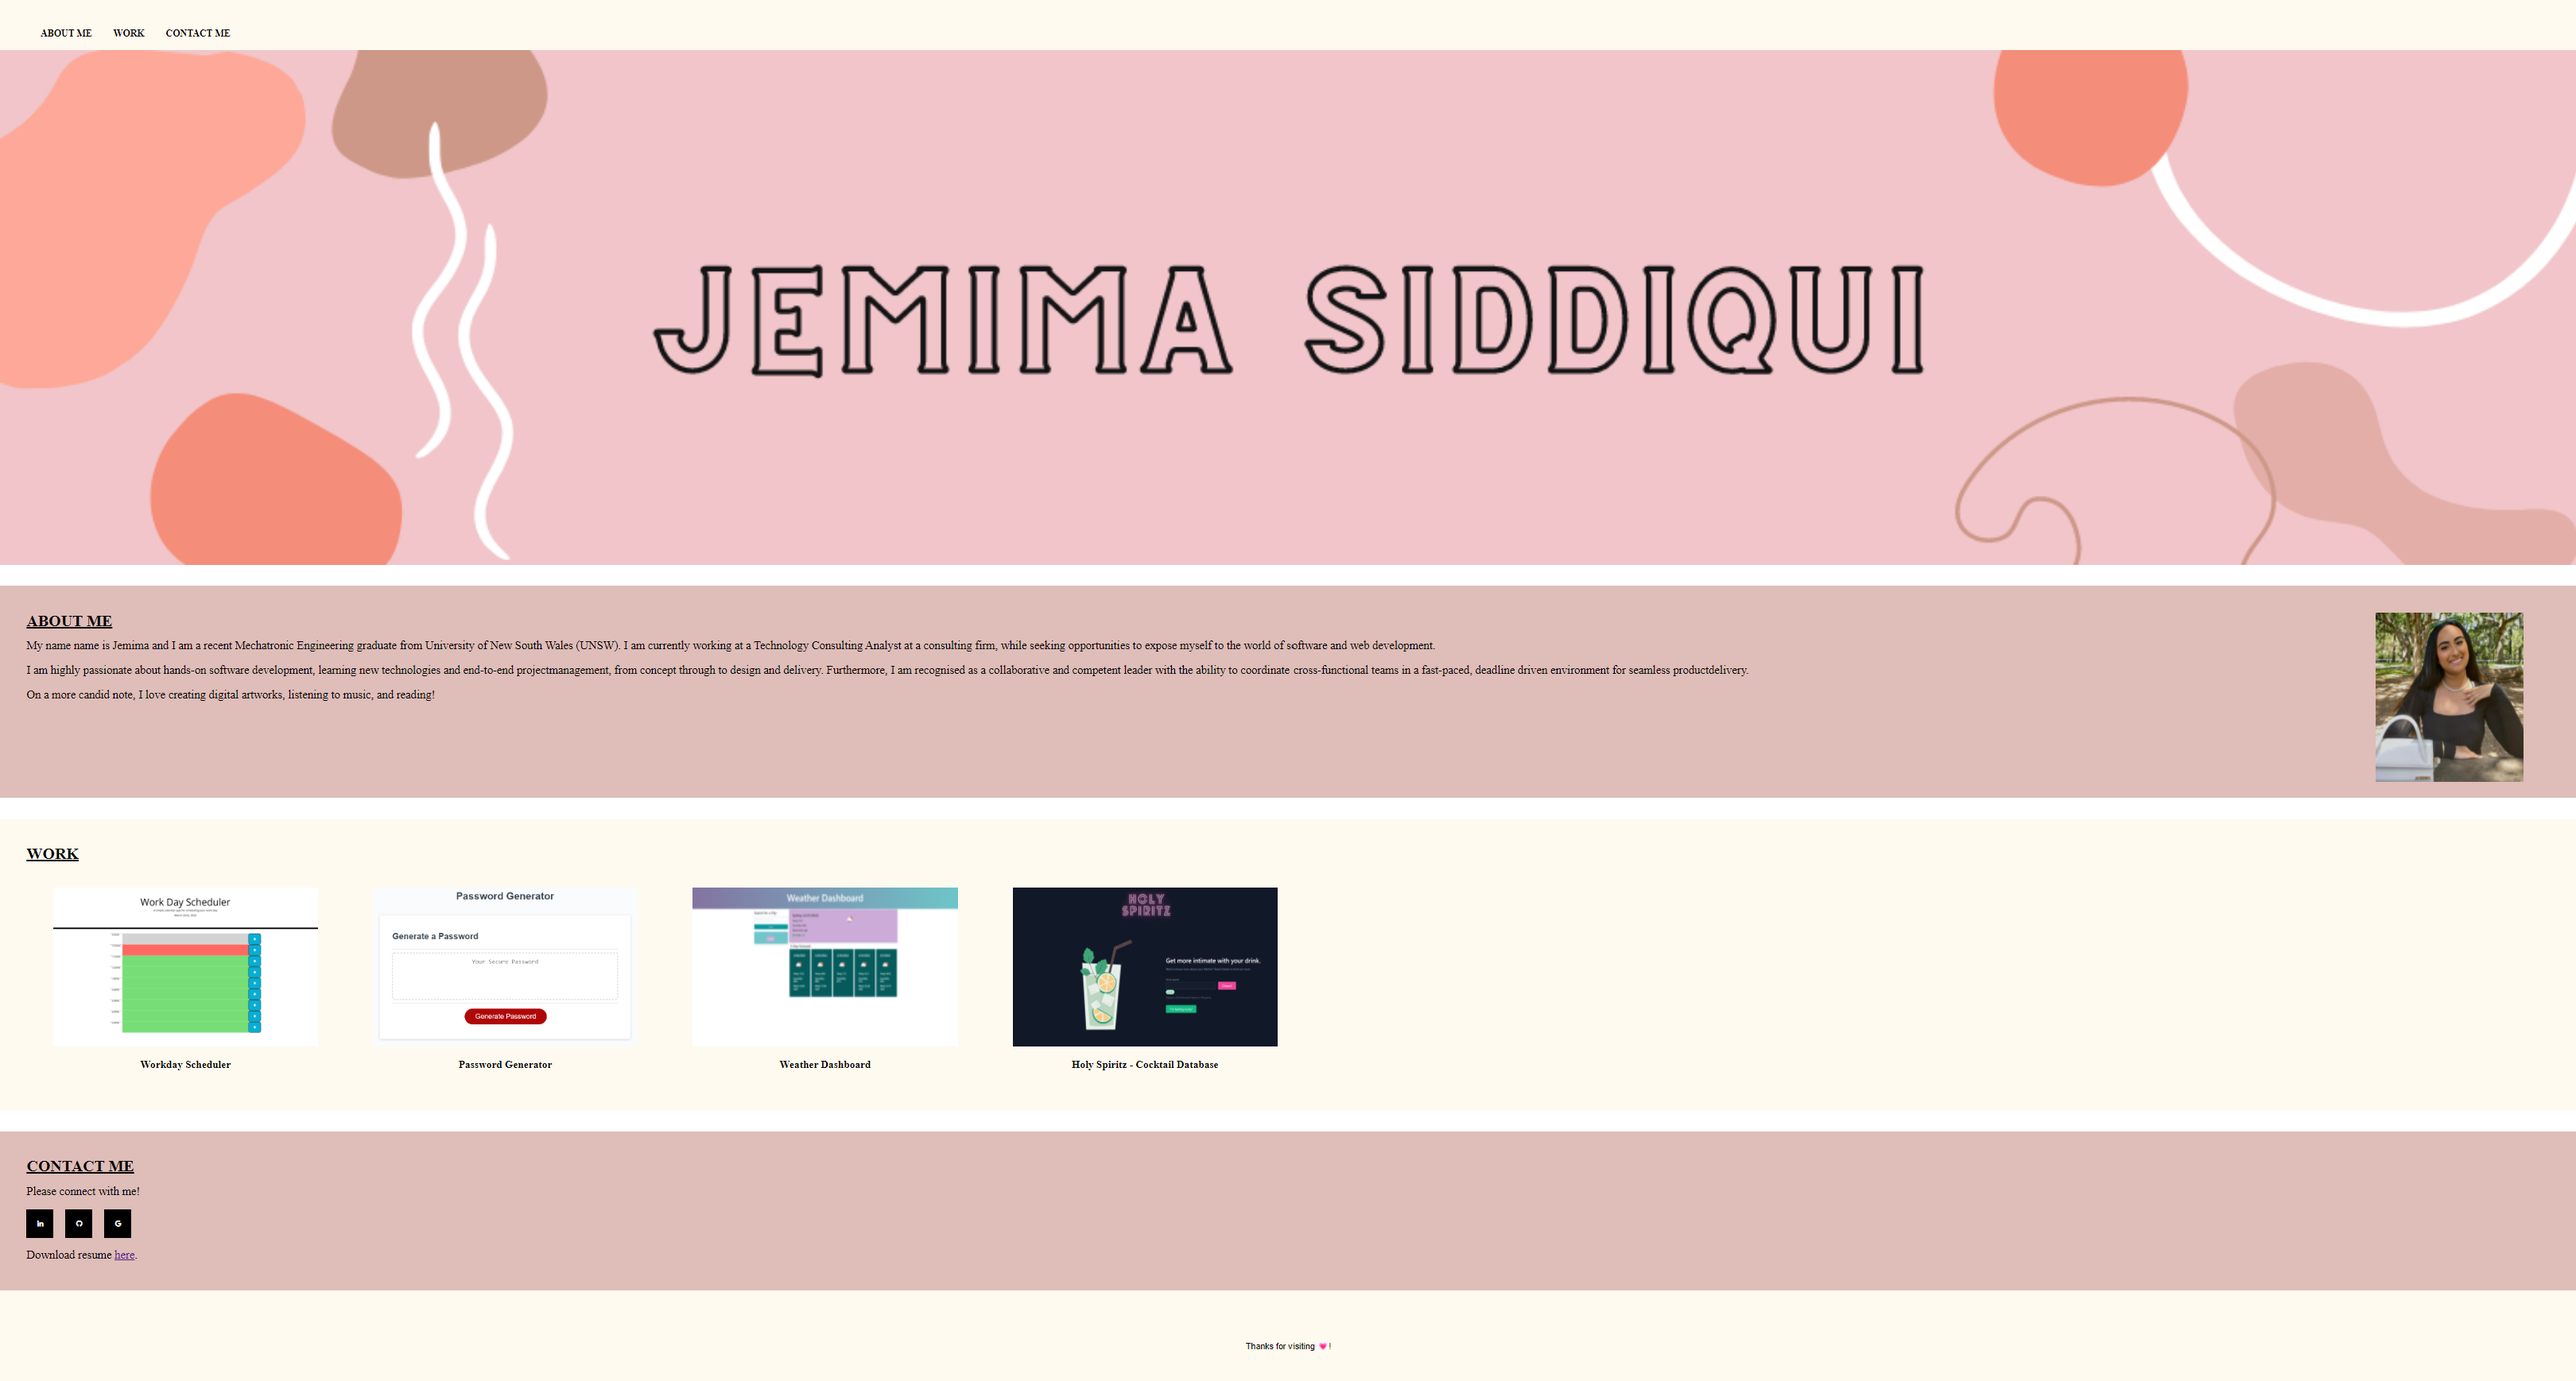
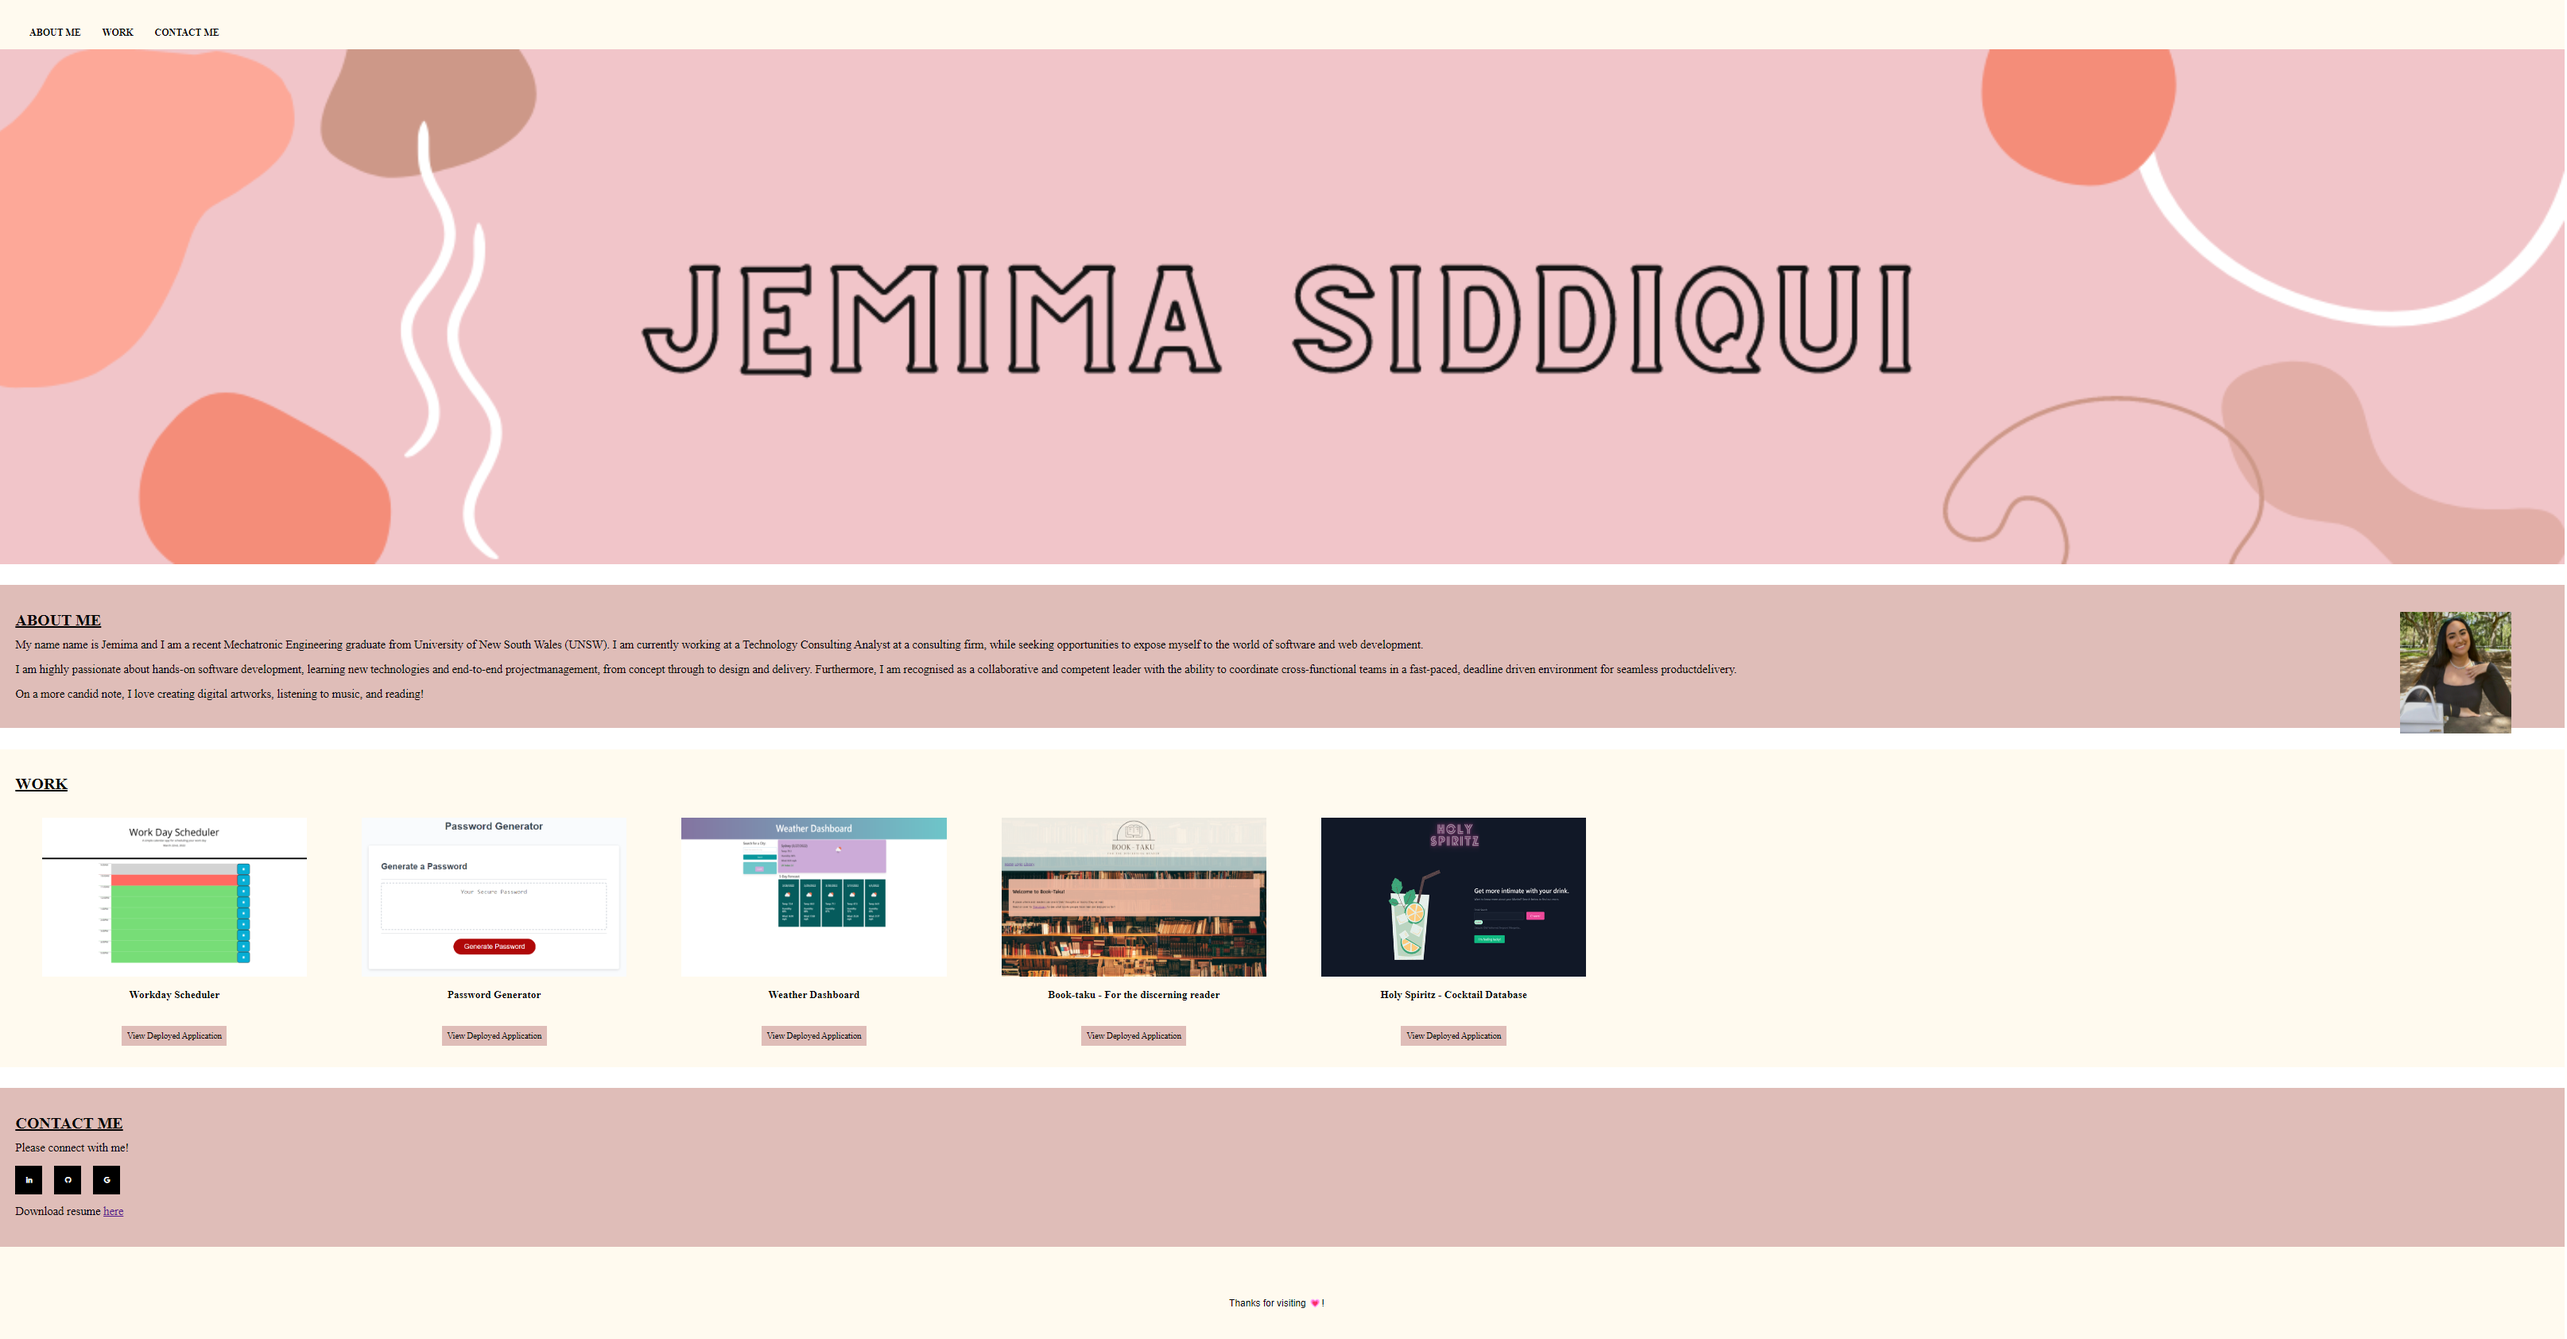
updated the README file

diff --git a/README.md b/README.md
@@ -71,7 +71,7 @@ The About Me section consists of a professional summary of the developer and a r
 
 2. Work section: 
 
-The work section consists of a slide bar with images of the developer's deployed applications. NOTE: The application links provided are other peoples' work and are used for demonstation purposes ONLY. Hovering over one of the images causes that image to enlarge. Furthermore, by clicking on the images, users will be redirected to the corresponding deployed application. 
+The work section consists of a slide bar with images of the developer's deployed applications. Hovering over one of the images causes that image to enlarge and by clicking on the images users will be redirected to the corresponding github repositories. Users can also click on the "View Deployed Application" button to be redirected to the corresponding deployed application. 
 
 ![Work section](./assets/images/work-screenshot.png)
 
